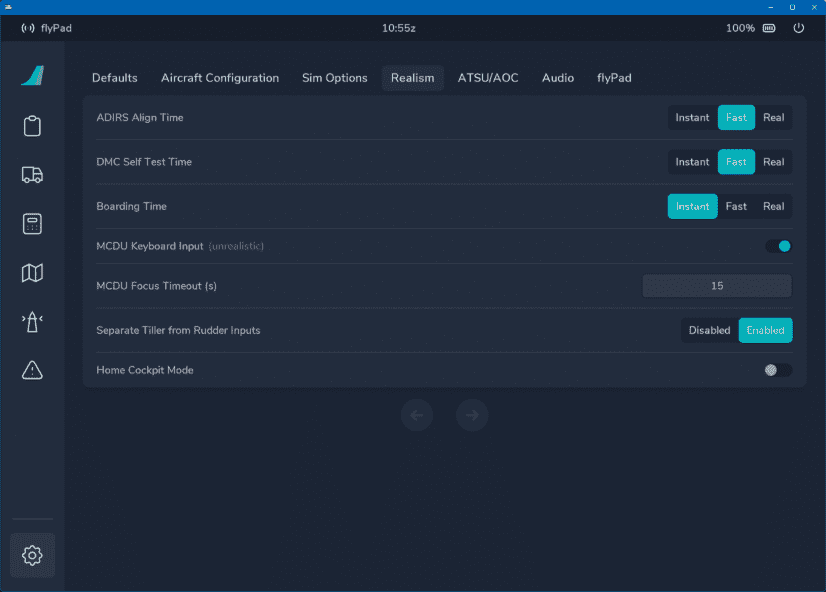
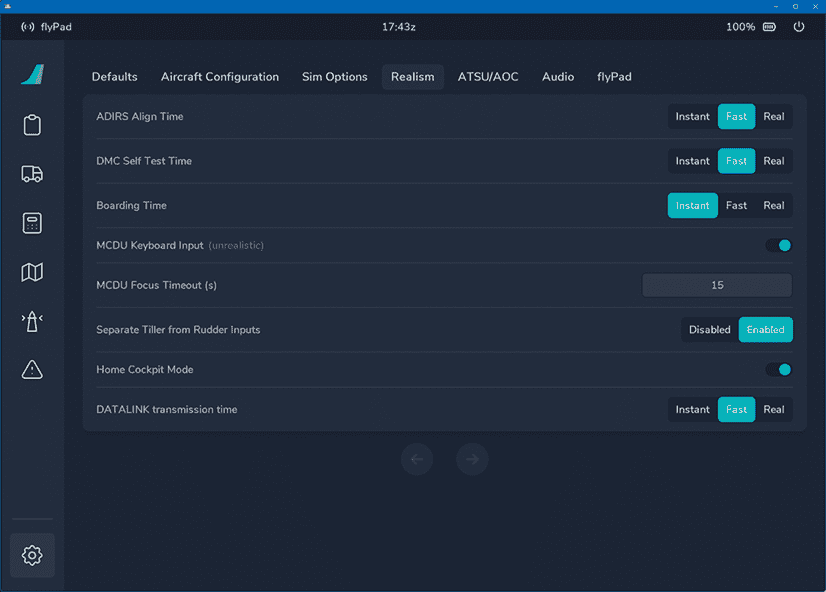
Updated EFB Settings Realism page for Hoppie ACARS

diff --git a/docs/fbw-a32nx/feature-guides/flyPad/settings.md b/docs/fbw-a32nx/feature-guides/flyPad/settings.md
@@ -143,6 +143,11 @@ Settings for realism aspects of the A32NX aircraft.
 - Home Cockpit Mode
     - Removes backlight bleed from PFD, ND, and ECAMs
     - Removes reflection from the ISIS
+- DATALINK transmission time
+    - Instant: sends and receives messages within two seconds
+    - Fast: sends and receives messages within twenty seconds
+    - Real: sends and receives messages within sixty seconds
+    - See [Hoppie ACARS](../hoppie.md)
 
 ## ATSU/AOC
 
